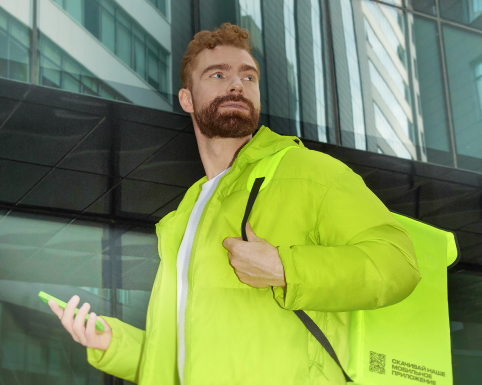
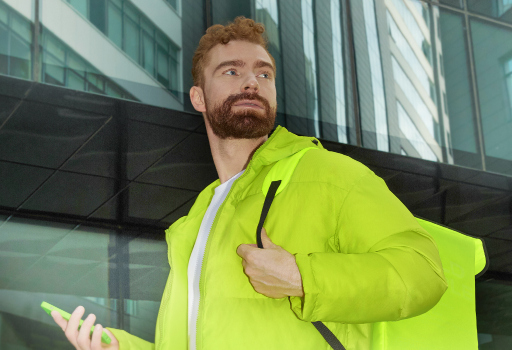
init

diff --git a/components/organisms/our-products/our-products.vue b/components/organisms/our-products/our-products.vue
@@ -75,6 +75,14 @@ const imgAttrs = {
       srcset: ["/our-products/375.jpg"],
       ext: "jpg",
       media: {
+        till: 414,
+      },
+    },
+    {
+      srcset: ["/our-products/414.jpg"],
+      ext: "jpg",
+      media: {
+        from: 414,
         till: 768,
       },
     },

diff --git a/components/organisms/our-products/our-products.style.scss b/components/organisms/our-products/our-products.style.scss
@@ -9,7 +9,7 @@ $block: "." + $name;
 
 // section
 $background-color: #101010;
-$section-y-desktop: 143px;
+$section-y-desktop: 140px;
 $section-padding-y-desktop-small: 124px;
 $section-padding-y-tablet-landscape: 92px;
 $section-padding-x-tablet-landscape: 30px;
